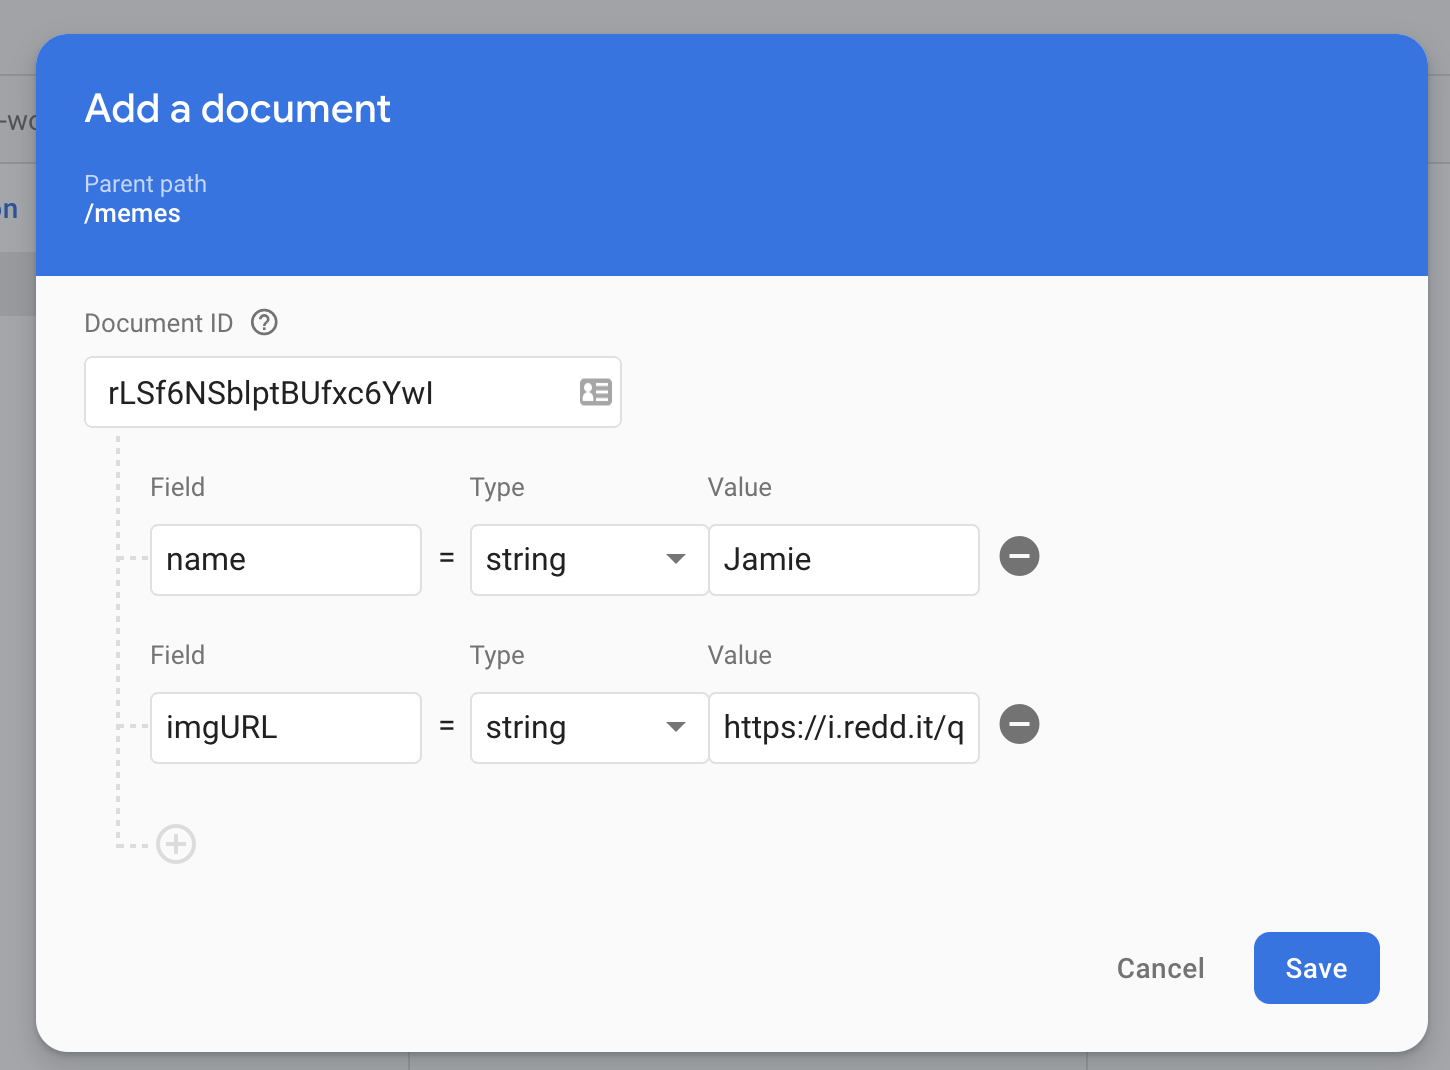
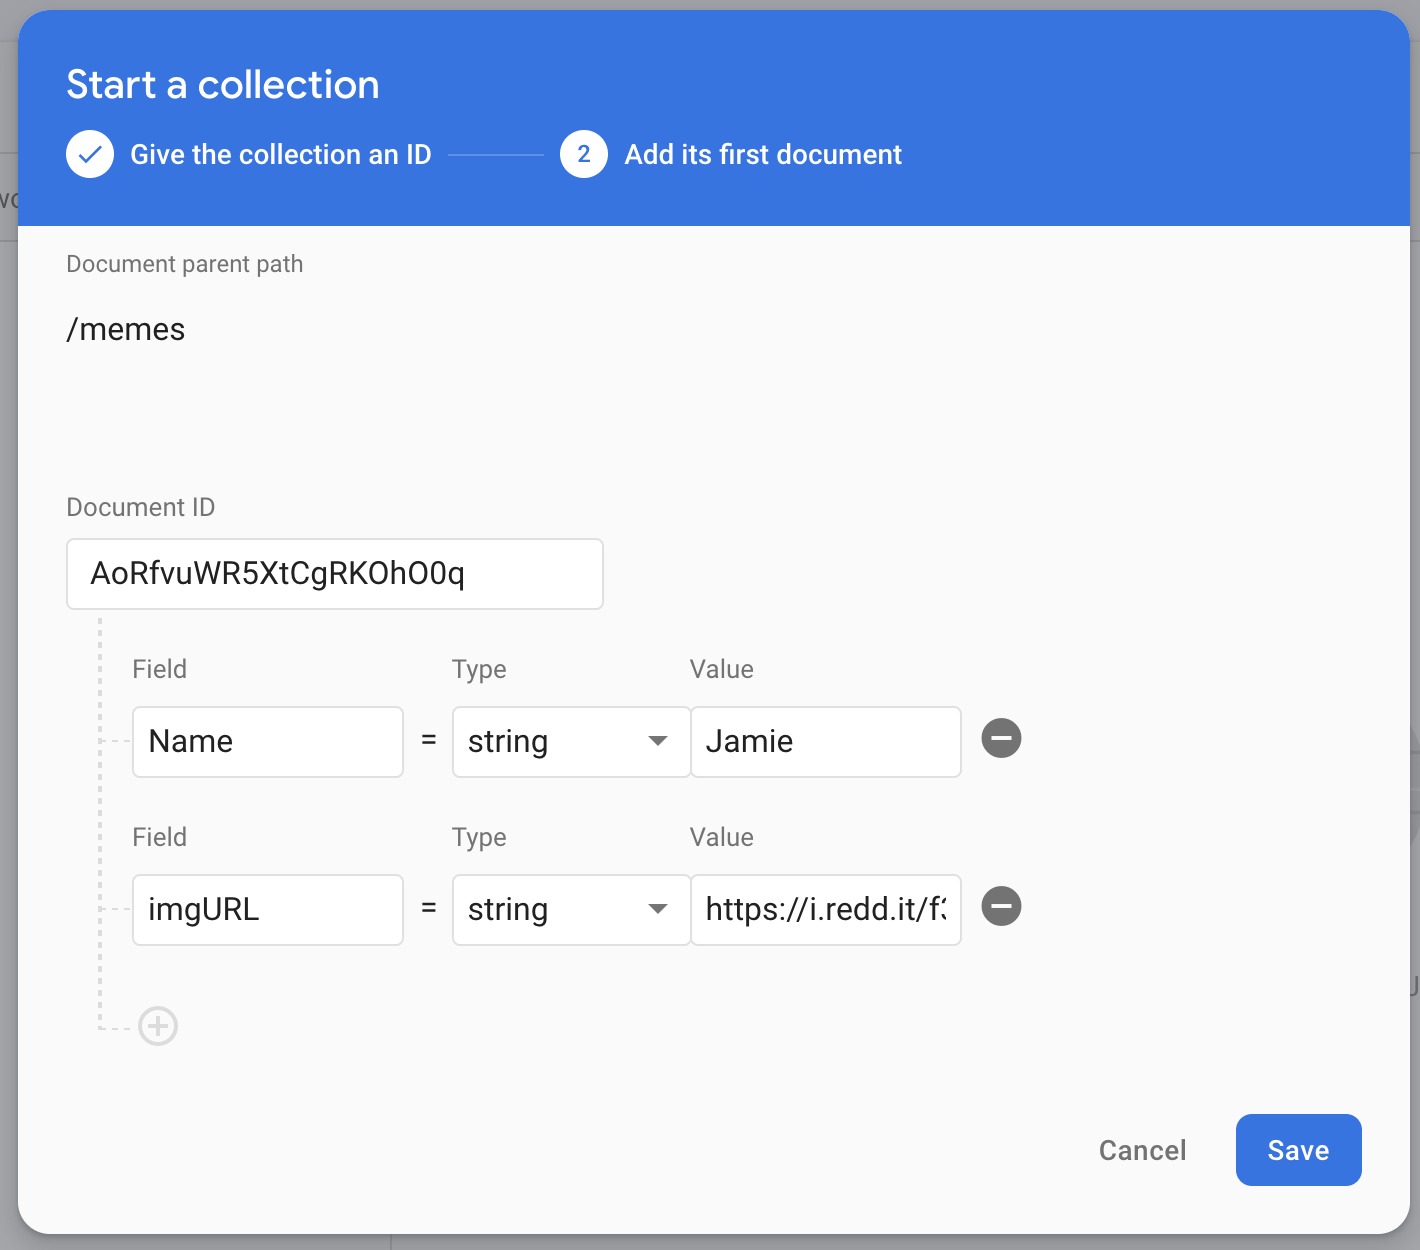
add stuff to README, fix warnings

diff --git a/src/Meme.js b/src/Meme.js
@@ -2,14 +2,11 @@ import React from 'react';
 import "./Meme.css";
 
 class Meme extends React.Component {
-    constructor(props) {
-        super(props);
-    }
     render = () => {
         return (
             <div className="meme-container">
                 <div className="meme-text">submitted by: {this.props.name}</div>
-                <img className="meme-image" src={this.props.imgURL}/>
+                <img className="meme-image" src={this.props.imgURL} alt="meme"/>
             </div>
         );
     }

diff --git a/src/Meme.css b/src/Meme.css
@@ -3,7 +3,7 @@
     margin: 1em;
     border: 1px solid black;
     border-radius: 5px;
-    height: calc(30vh);
+    height: 30vh;
     display: row;
     background-color: white;
   }

diff --git a/src_base/Meme.css b/src_base/Meme.css
@@ -3,7 +3,7 @@
     margin: 1em;
     border: 1px solid black;
     border-radius: 5px;
-    height: calc(30vh);
+    height: 30vh;
     display: row;
     background-color: white;
   }

diff --git a/README.md b/README.md
@@ -6,7 +6,9 @@ editor of your choice (we will be using
 [Visual Studio Code](https://code.visualstudio.com/))
 
 ## Setting Up the Project
-Open up your terminal application (Terminal on MacOS, Powershell on Windows)
+Open up your terminal application (Terminal on MacOS, Powershell on Windows) 
+and execute the following commands. (Note: the "$" character is not part of
+the command).
 
 ```
 $ npx create-react-app meme-app
@@ -33,22 +35,99 @@ In addition, create two new files in the `src` directory and copy the linked cod
 
 `Meme.css`: [code](src_base/Meme.css)
 
-Make sure to save all of your changes!
+Make sure to save all of your changes! Then you should see something that looks
+like this:
 
-[getting realtime updates with cloud firestore](https://firebase.google.com/docs/firestore/query-data/listen)
+![](images/base_app.png)
 
-[adding data to cloud firestore](https://firebase.google.com/docs/firestore/manage-data/add-data)
+Try adding some memes to the page! Wow, memes are great. But oh no... when we 
+refresh the page, all of our precious memes disappear!! :0 :c
 
+In order to make a meme page that actually stores and displays all the memes 
+we submitted, we'll need some sort of database. Enter... Firebase!!
+
+## Creating a Firebase Project
+
+To get started, log in to [firebase](https://console.firebase.google.com/), and
+you should get a screen that looks like this;
 ![](images/projects.png)
+
+Click the "add project" button, which should prompt you to enter the project's
+name.
 ![](images/create_project_0.png)
+Then hit continue, and you'll be prompted to use Google Analytics. This will
+require some additional setup, so I won't be enabling it. However, it is a
+pretty useful tool for measuring app usage and user engagement, if that's
+something you're interested in.
+
 ![](images/create_project_1.png)
+
+## Adding an App to the Project
+
+Now you should see the project overview. Since we're using a web app, let's
+click the button to add a web app to the project.
+
 ![](images/project_overview.png)
+
+Choose a nickname for your app, and then hit "register app"
 ![](images/add_app_0.png)
+
+Next, we're going to need to add the firebase configuration to our app. Your screen
+should look something like the image below.
+
 ![](images/add_app_1.png)
+
+Create a `lib` folder inside the `src` folder, and create a `firebase.js` file
+inside of it. Copy the code under the "Your web app's Firebase configuration"
+and "Initialize Firebase" comments, and paste it into the `firebase.js` file.
+Now modify the file to look like this (the config part should be from the code
+you copied, not exactly the same as below!):
+
+``` javascript
+import firebase from 'firebase';
+
+const config = {
+    apiKey: "AIzaSyBVkHrj182dfk4NAEfwcRPN_DkC_HOOk8Q",
+    authDomain: "hoth7-firebase-workshop.firebaseapp.com",
+    databaseURL: "https://hoth7-firebase-workshop.firebaseio.com",
+    projectId: "hoth7-firebase-workshop",
+    storageBucket: "hoth7-firebase-workshop.appspot.com",
+    messagingSenderId: "328418075634",
+    appId: "1:328418075634:web:2b44d5c432aa54189c016b"
+};
+
+firebase.initializeApp(config);
+
+export default firebase;
+```
+## Adding a Firebase Database
+On the left sidebar, click the "database" button, and you should see a screen 
+like this:
 ![](images/database_0.png)
+
+Click create database, and for security rules, we are going to start 
+in test mode (although in production, you'll want more stringent security rules).
 ![](images/database_1.png)
+
+For the Cloud Firestore location, I'm going to choose a server in the US west
+region. 
 ![](images/database_2.png)
+
+## Firebase Databases
+Now that we have our database, let's create some sample data for our app to use.
+First, let's add a new collection by clicking "start collection".
 ![](images/add_collection_0.png)
+
+I'm going to name my collection "memes". The name of the collection is what we'll
+use to refer to it in our code later. After picking a name, click the "next" button.
 ![](images/add_collection_1.png)
+
+Now we can add our first document to the "memes" collection. I'm going
+to use an autogenerated ID. This document will have two fields, both strings. 
+The first will be a field called "name", which I'll set to "Jamie". In addition,
+the document will have an "imgURL" field. Here, I'll input a link to [the image
+that I want displayed](https://i.redd.it/f322t7u6sih41.jpg). 
 ![](images/add_document.png)
+
+## Using the Database in the App
 
